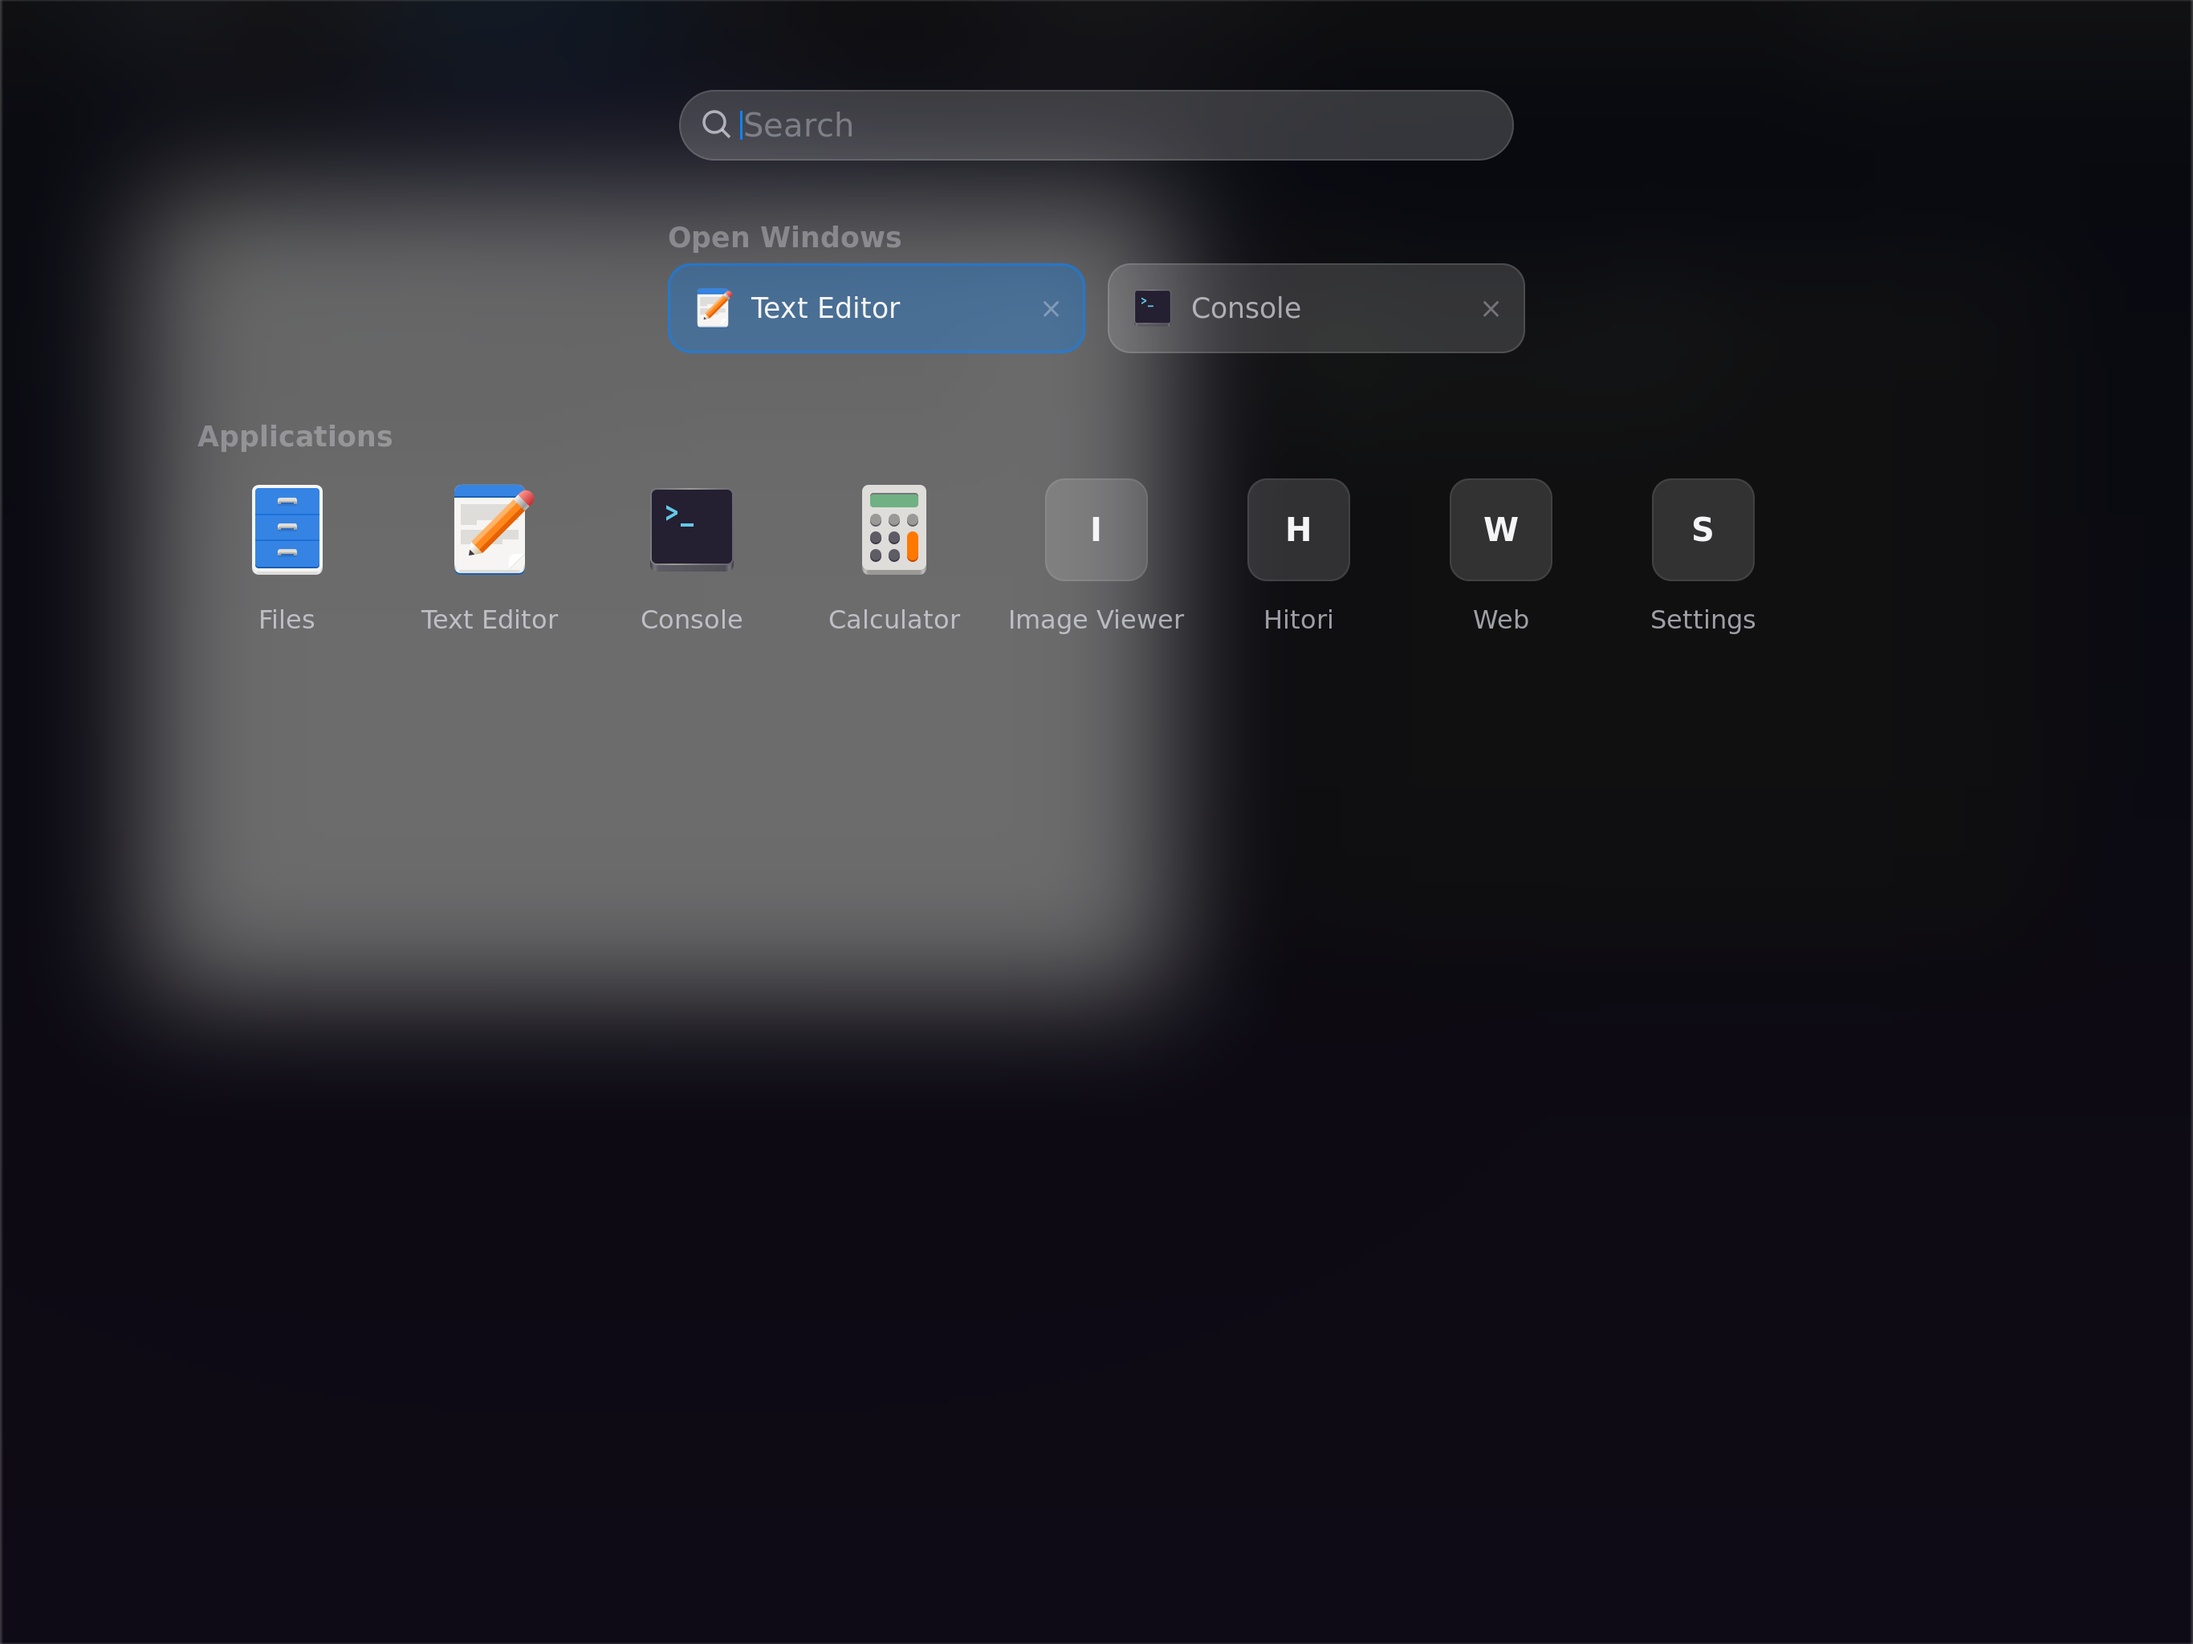
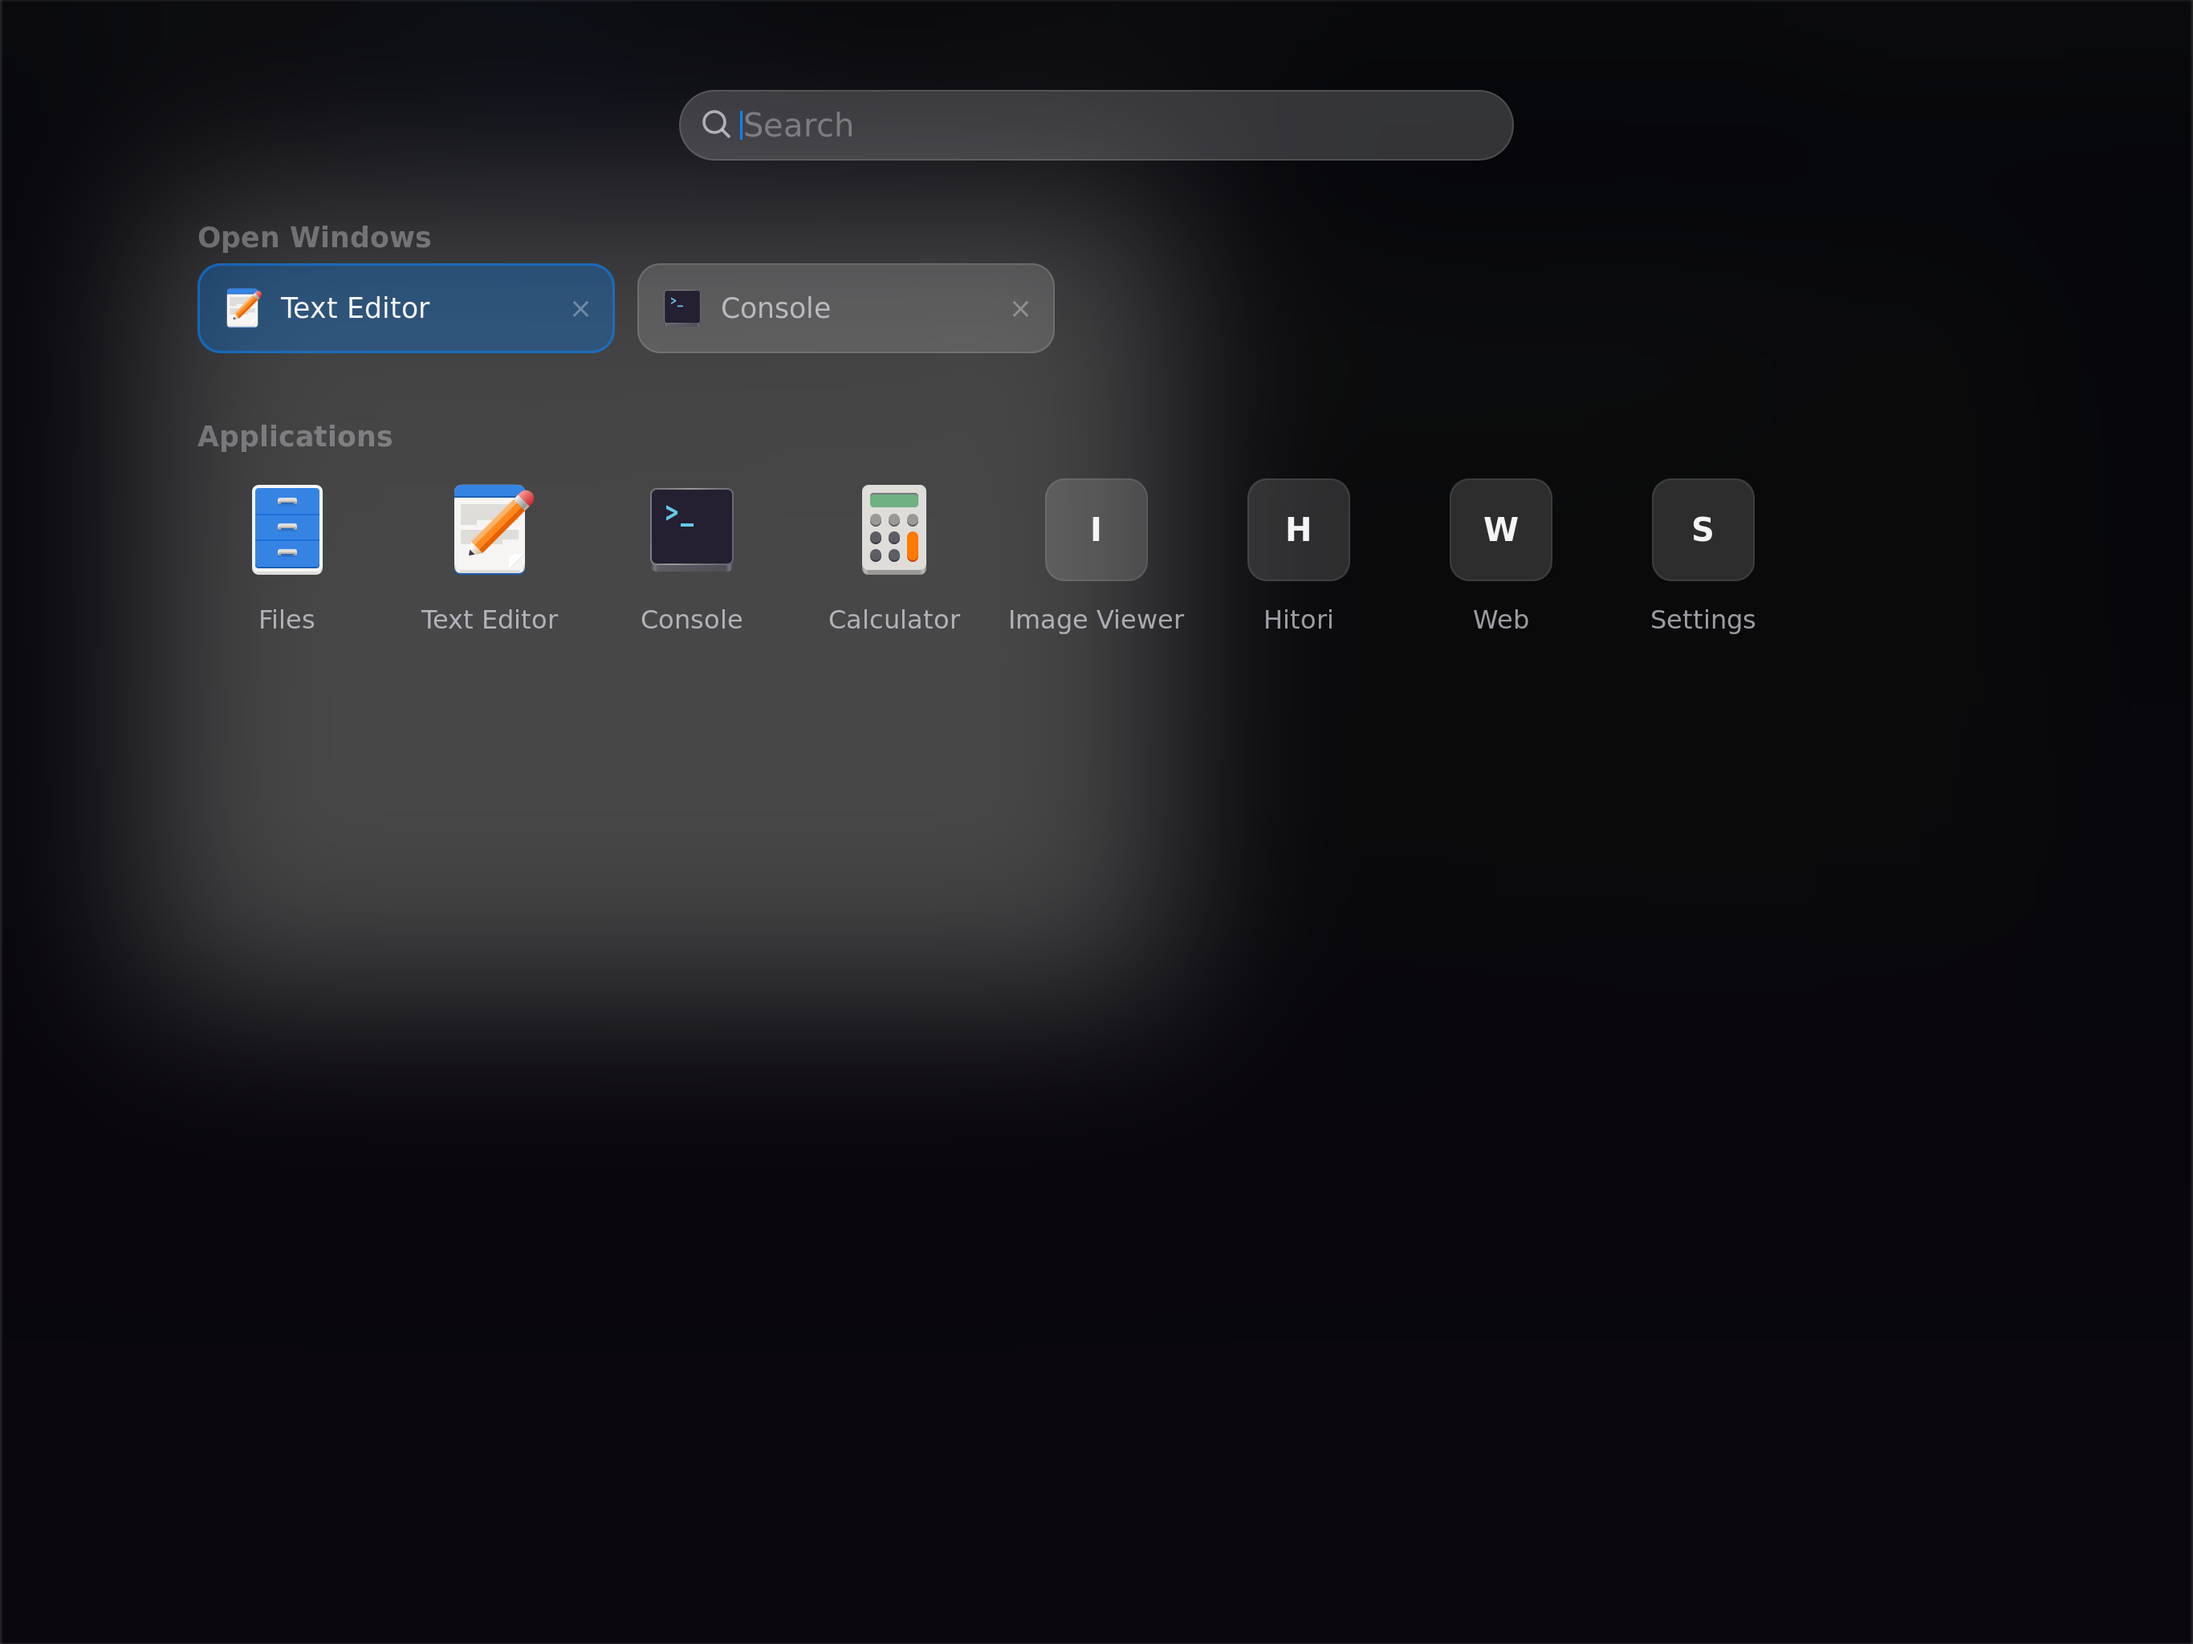
iosc-shell: overview scrim/alignment + QS card rhythm + softer backdrop blur (patch1 landed post-restart)

Changed region(s): [[0.0622, 0.0938, 0.7156, 0.625]]

diff --git a/x11/apps/iosc-shell/overview-layout.h b/x11/apps/iosc-shell/overview-layout.h
@@ -85,7 +85,9 @@ static int ov_content_height(const struct ov_model *m, int W)
     if (cols < 1) cols = 1;
     int h = 0;
     if (m->nwins > 0 && !m->searching) {
-        int ccols = (W - 2 * OV_MARGIN + OV_GAP) / (OV_CHIP_W + OV_GAP);
+        int grid_w0 = cols * OV_CELL_W + (cols - 1) * OV_GAP;
+        int x0 = (W - grid_w0) / 2;
+        int ccols = (W - 2 * x0 + OV_GAP) / (OV_CHIP_W + OV_GAP);
         if (ccols < 1) ccols = 1;
         int crows = (m->nwins + ccols - 1) / ccols;
         h += 24 + crows * (OV_CHIP_H + OV_GAP) + OV_SECT_GAP;
@@ -224,14 +226,13 @@ static void ov_draw(cairo_t *cr, pr_text_ctx *t, int W, int H,
     cairo_clip(cr);
 
     if (m->nwins > 0 && !m->searching) {
-        int ccols = (W - 2 * OV_MARGIN + OV_GAP) / (OV_CHIP_W + OV_GAP);
+        /* both section headers + rows share the grid's left edge (x0) */
+        int ccols = (W - 2 * x0 + OV_GAP) / (OV_CHIP_W + OV_GAP);
         if (ccols < 1) ccols = 1;
-        int chips_w = (m->nwins < ccols ? m->nwins : ccols) * (OV_CHIP_W + OV_GAP) - OV_GAP;
-        int cx0 = (W - chips_w) / 2;
-        pr_text(cr, t, TH_FONT_SECTION, "Open Windows", cx0, y + 8, TH_FG_FAINT, 0);
+        pr_text(cr, t, TH_FONT_SECTION, "Open Windows", x0, y + 8, TH_FG_FAINT, 0);
         y += 24;
         for (int i = 0; i < m->nwins; i++) {
-            int cx = cx0 + (i % ccols) * (OV_CHIP_W + OV_GAP);
+            int cx = x0 + (i % ccols) * (OV_CHIP_W + OV_GAP);
             int cyy = y + (i / ccols) * (OV_CHIP_H + OV_GAP);
             ov__chip(cr, t, m, hits, &m->wins[i], cx, cyy, i);
         }

diff --git a/x11/apps/iosc-shell/panel-layout.h b/x11/apps/iosc-shell/panel-layout.h
@@ -308,7 +308,7 @@ static void qs__button(cairo_t *cr, pr_text_ctx *t, const struct qs_model *m,
 /* The card's total logical height for a given model (charging adds a line). */
 static int panel_qs_height(const struct qs_model *m)
 {
-    return 172 + (m->batt_charging ? 16 : 0);
+    return 186 + (m->batt_charging ? 16 : 0);
 }
 
 /* Draw the quick-settings card filling the whole (W,H) surface. */
@@ -338,6 +338,8 @@ static void panel_draw_qs(cairo_t *cr, pr_text_ctx *t, int W, int H,
     y += 24;
     pr_text(cr, t, TH_FONT_LABEL, m->date_long, x, y + 8, TH_FG_DIM, (int)cw);
     y += 26;
+    pr_fill_rect(cr, x, y, cw, 1, TH_SEP);
+    y += 14;
 
     /* battery block: label row + gauge track */
     if (m->batt_pct >= 0) {

diff --git a/x11/apps/iosc-shell/shell-theme.h b/x11/apps/iosc-shell/shell-theme.h
@@ -34,7 +34,7 @@
 #define TH_PRESS       0x33FFFFFFu      /* pressed backplate         (~20%)  */
 #define TH_TILE        0x24FFFFFFu      /* monogram backplate        (~14%)  */
 #define TH_GREEN       0xFF30D158u      /* charging / positive               */
-#define TH_SCRIM       0x8C000000u      /* overview dim over the blur (~55%) */
+#define TH_SCRIM       0xB3000000u      /* overview dim over the blur (~70%) */
 
 /* Wallpaper fallback gradient (also the preview backdrop). */
 #define TH_WALL_TOP    0xFF141824u

diff --git a/x11/apps/iosc-shell/preview-host.c b/x11/apps/iosc-shell/preview-host.c
@@ -196,7 +196,7 @@ int main(int argc, char **argv)
     /* ---- 3: the overview over the frosted desktop --------------------- */
     {
         struct ov_model om; memset(&om, 0, sizeof om);
-        om.backdrop = sb_backdrop_build(desk, 8, 8);   /* the client's exact path */
+        om.backdrop = sb_backdrop_build(desk, 8, 12);  /* the client's exact path */
         om.have_ptr = 1; om.px = LW / 2 - 160; om.py = 560; /* hover an app tile */
         om.anim_t = 1.0;
         om.nwins = 2;

diff --git a/x11/apps/iosc-shell/ioscoverview.c b/x11/apps/iosc-shell/ioscoverview.c
@@ -540,7 +540,7 @@ int main(void)
         cairo_surface_t *cap = sc_capture(O.dpy, O.shm, O.scm, O.scm_version, O.output,
                                           0, 0, 0, 0);
         if (cap) {
-            O.backdrop = sb_backdrop_build(cap, 8, 8);
+            O.backdrop = sb_backdrop_build(cap, 8, 12);
             cairo_surface_destroy(cap);
         }
     }
